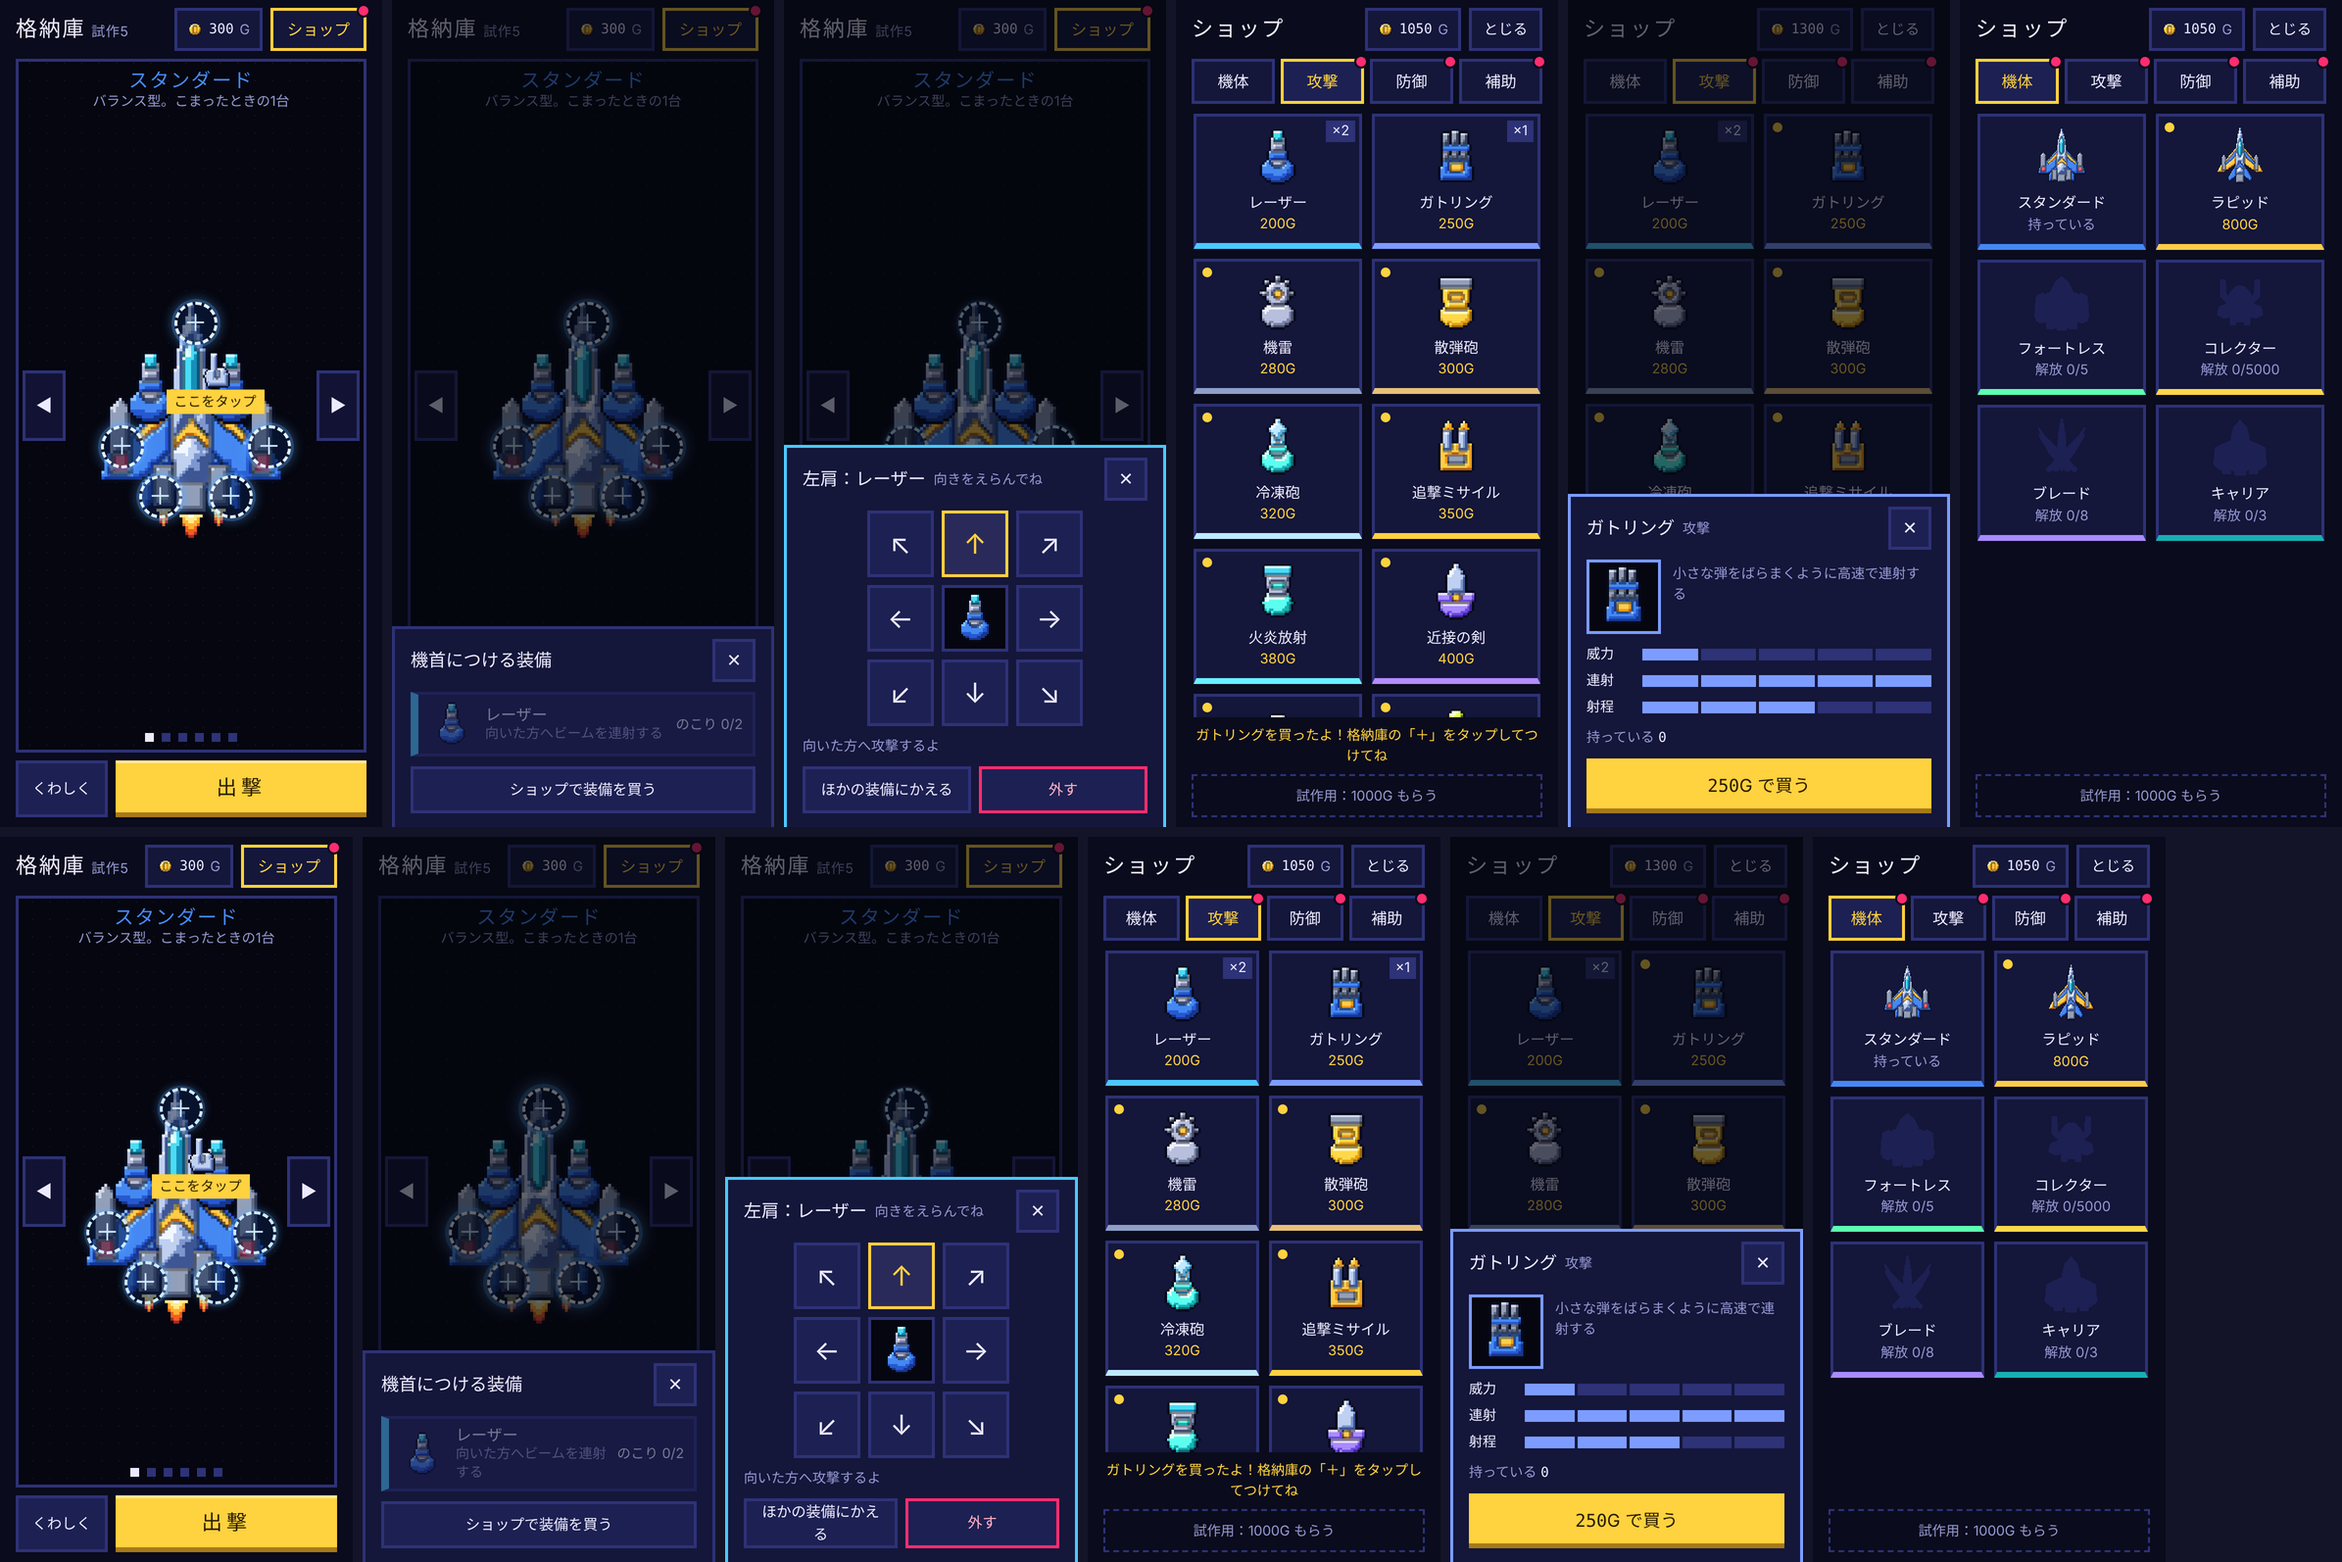
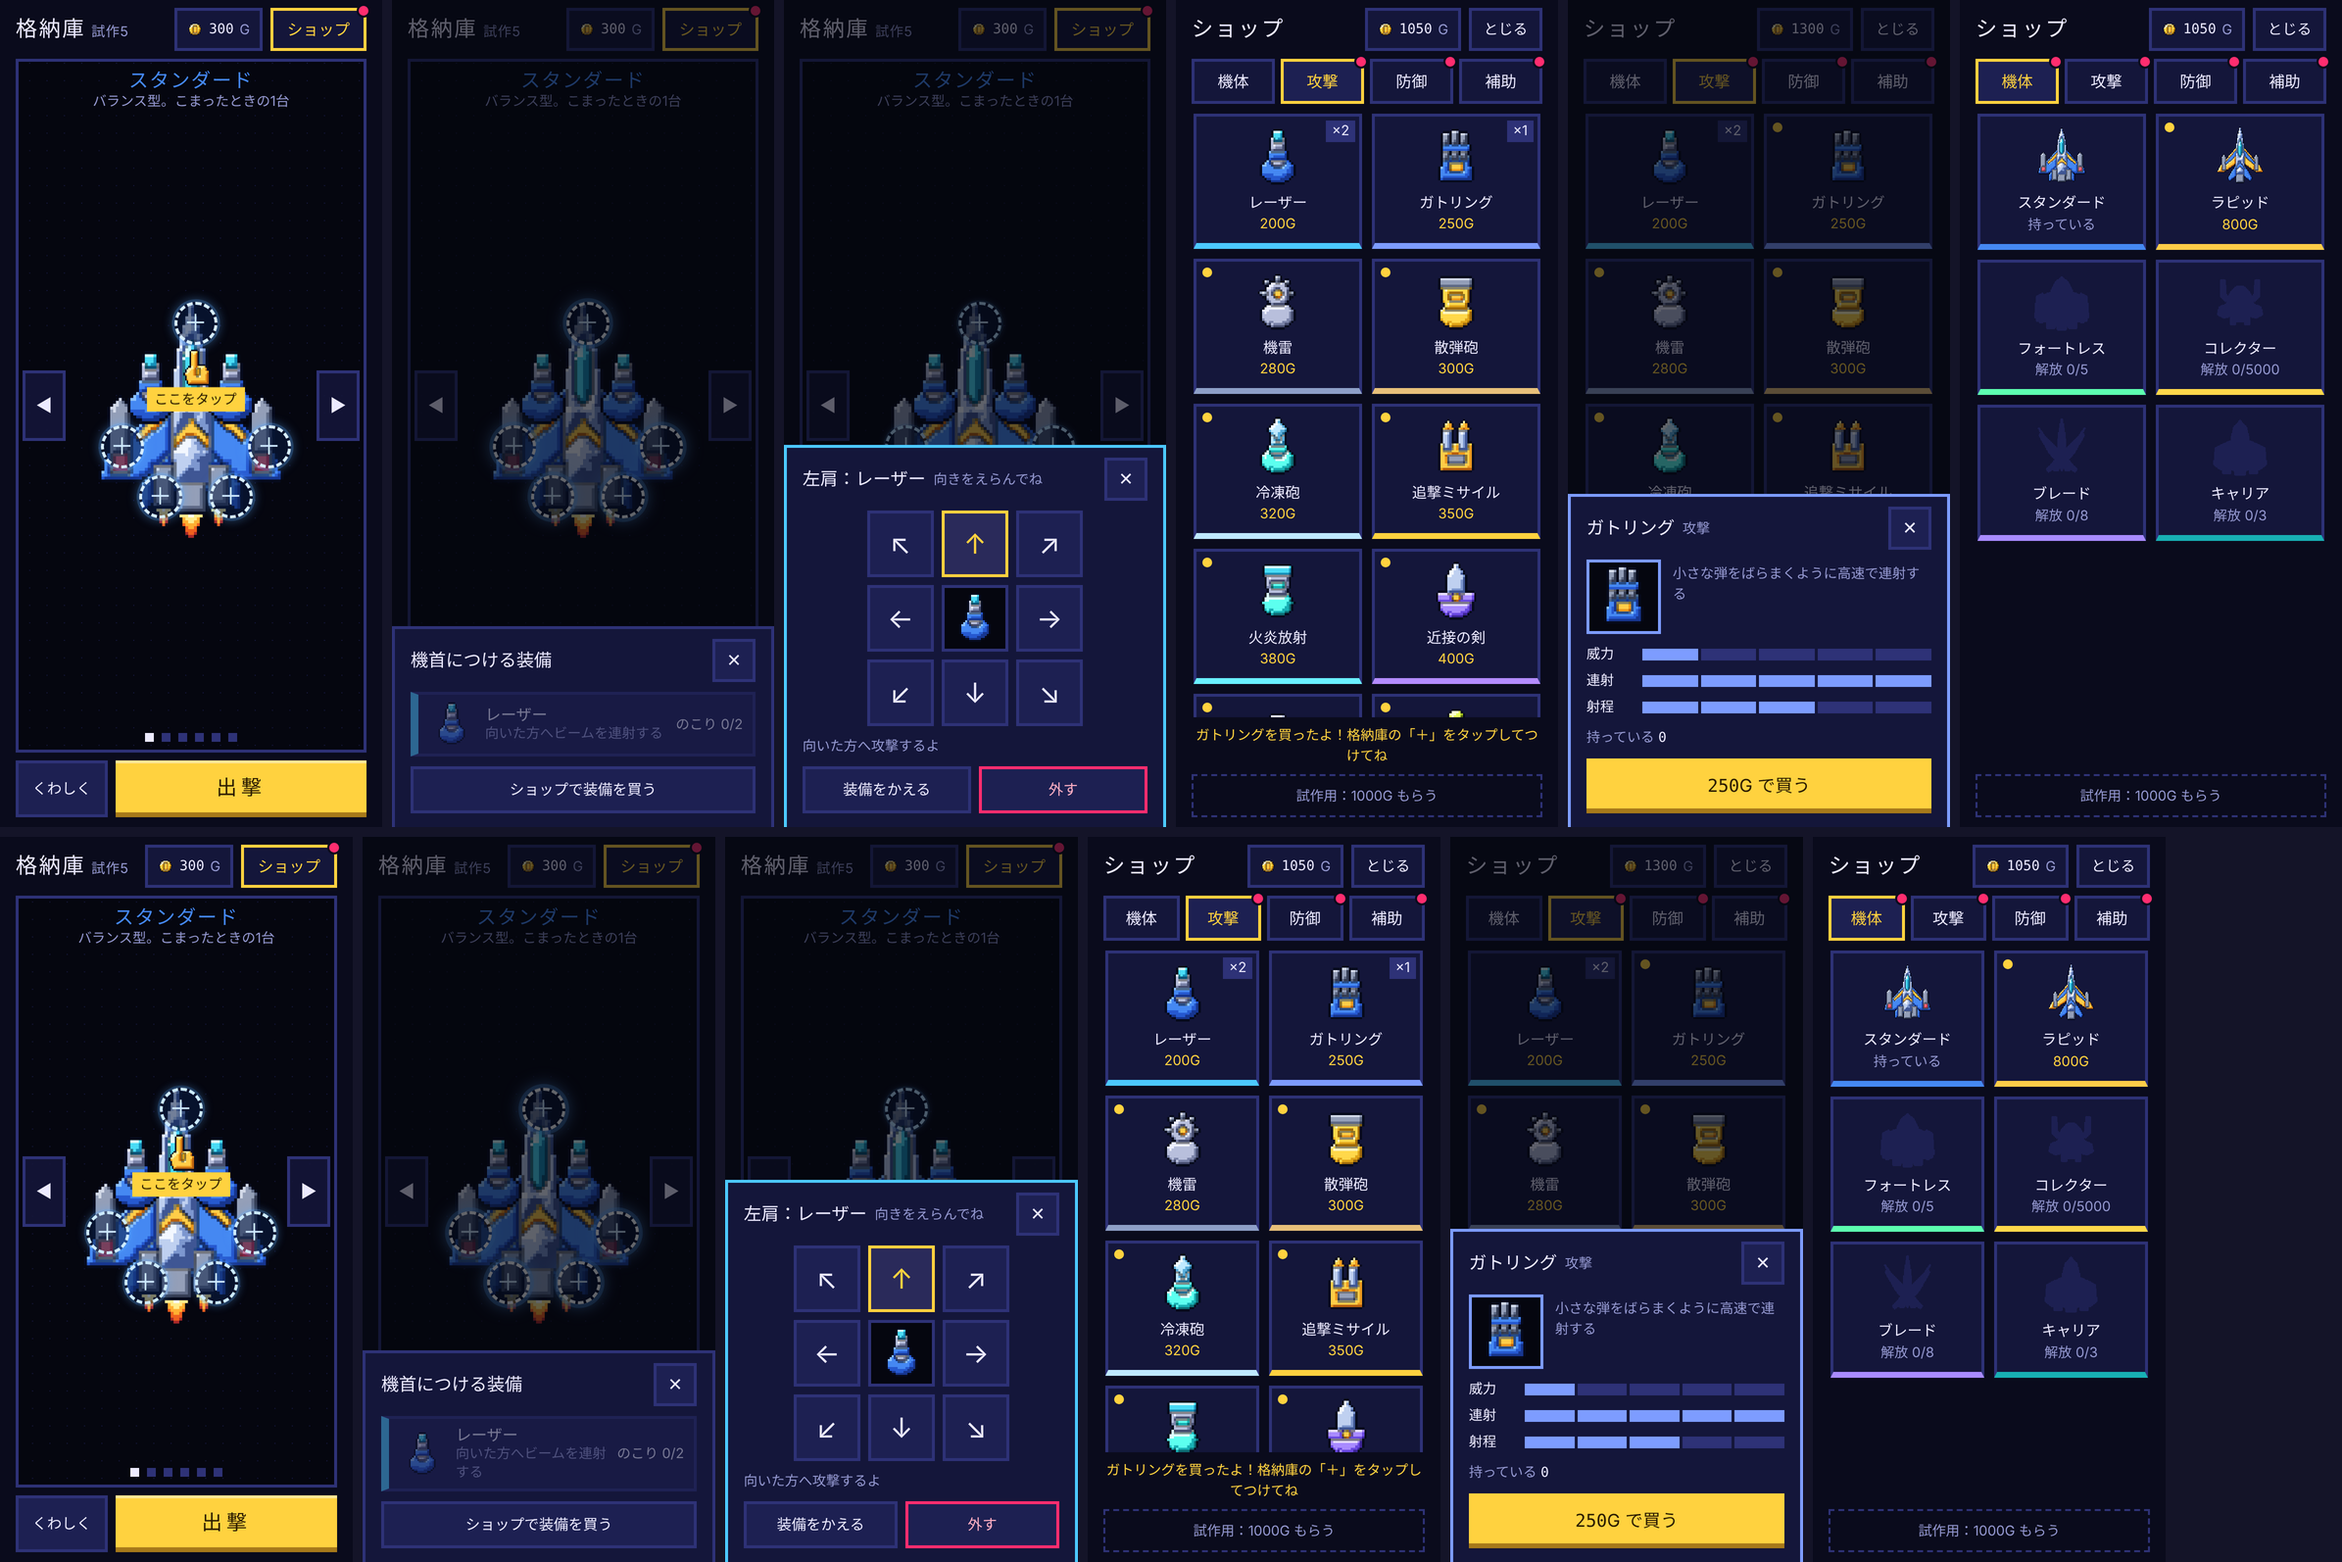
点検の指摘：指のマークを「＋」の真下に・黄色で見やすく、案内は一覧を1回開いたら終わり、ボタンの文を短く

diff --git a/index.html b/index.html
@@ -57,7 +57,7 @@ h1 small{font-size:14px;color:var(--dim);letter-spacing:.04em;margin-left:6px}
 .prog{height:12px;background:var(--panel);border:2px solid var(--edge);margin:6px 0}
 .prog i{display:block;height:100%;background:var(--go)}
 .lockbox .btn3{margin-top:6px;width:100%}
-.finger{position:absolute;z-index:4;pointer-events:none;display:flex;flex-direction:column;align-items:center;animation:tap 1s ease-in-out infinite}
+.finger{position:absolute;z-index:4;translate:-50% 0;pointer-events:none;display:flex;flex-direction:column;align-items:center;animation:tap 1s ease-in-out infinite}
 .finger span{font-size:30px;line-height:1;filter:drop-shadow(0 2px 0 #000)}
 .finger b{font-weight:400;font-size:14px;background:var(--go);color:var(--go-ink);padding:2px 8px;white-space:nowrap}
 @keyframes tap{50%{transform:translateY(6px)}}
@@ -793,7 +793,7 @@ let save=loadSave();setShip(save.cur);
 const hangar=$('hangar'),sortie=$('sortie'),bay=$('bay'),edCv=$('editor'),ed=edCv.getContext('2d');
 const SS=112,SC=56;
 const ssCv=document.createElement('canvas');ssCv.width=SS;ssCv.height=SS;const ssg=ssCv.getContext('2d');
-const FINGERURL=paint(16,20,[{m:'hull',r:2,p:[[5,0],[8,0],[8,9],[13,9],[15,12],[15,19],[3,19],[1,13],[3,10],[5,10]]},{m:'hull',r:1,p:[[8,10],[9,10],[9,14],[8,14]]}],{}).img.toDataURL();
+const FINGERURL=paint(16,20,[{m:'yel',r:2,p:[[5,0],[8,0],[8,9],[13,9],[15,12],[15,19],[3,19],[1,13],[3,10],[5,10]]},{m:'gold',r:1,p:[[8,10],[9,10],[9,14],[8,14]]}],{}).img.toDataURL();
 let EV={dpr:1,k:1,ox:0,oy:0,W:1,H:1,css:1},noteT=0,view=save.cur,swipe=null,swipeAt=0;
 const used=t=>save.load.reduce((n,v)=>n+(v&&v.t===t?1:0),0);
 const avail=t=>save.owned[t]-used(t);
@@ -838,7 +838,7 @@ function renderSlots(){
   });
   /* はじめての人：指のマークで「ここをタップ」（1回目だけ） */
   const f=$('finger'),first=SHIPS[view].slots.findIndex((_,i)=>!save.load[i]);
-  if(!save.tut&&own&&first>=0&&$('sheetBg').hidden){const [x,y]=slotCss(first);f.style.left=(x-30)+'px';f.style.top=(y+22)+'px';f.hidden=false;}else f.hidden=true;
+  if(!save.tut&&own&&first>=0&&$('sheetBg').hidden){const [x,y]=slotCss(first);f.style.left=x+'px';f.style.top=(y+20)+'px';f.hidden=false;}else f.hidden=true;
 }
 function renderEquip(){
   const own=haveShip(view),sh=SHIPS[view],pg=shipProg(view);
@@ -877,6 +877,7 @@ window.addEventListener('keydown',e=>{if(e.key==='Escape'&&!sheetBg.hidden)close
 function shortEff(t){const m=MODS[t];return m.eff||m.desc;}
 function openList(i){
   const s=SLOTS[i],cur=save.load[i];
+  if(!save.tut){save.tut=1;persist();}/* 指の案内は1回だけ */
   const sh=openSheet(s.name+'につける装備',cur?'いま：'+MODS[cur.t].name:null);
   const list=TYPES.filter(t=>save.owned[t]>0);
   if(!list.length)sh.appendChild(el('p','dim','まだ装備を持っていないよ。ショップで買ってね'));
@@ -909,7 +910,7 @@ function openAim(i){
     b.addEventListener('click',()=>{v.d=d;persist();draw();drawEditor();});grid.appendChild(b);});};
   draw();sh.appendChild(grid);
   sh.appendChild(el('p','dim',m.passive?'この装備は向きに関係なく効くよ':'向いた方へ攻撃するよ'));
-  const row=el('div','sbtns'),ch=el('button','btn3','ほかの装備にかえる'),off=el('button','btn3 warn','外す');ch.type='button';off.type='button';
+  const row=el('div','sbtns'),ch=el('button','btn3','装備をかえる'),off=el('button','btn3 warn','外す');ch.type='button';off.type='button';
   ch.addEventListener('click',()=>{sheetOn=null;openList(i);});
   off.addEventListener('click',()=>{save.load[i]=null;persist();closeSheet();toast(SLOTS[i].name+'の'+m.name+'を外したよ');renderEquip();});
   row.append(ch,off);sh.appendChild(row);
